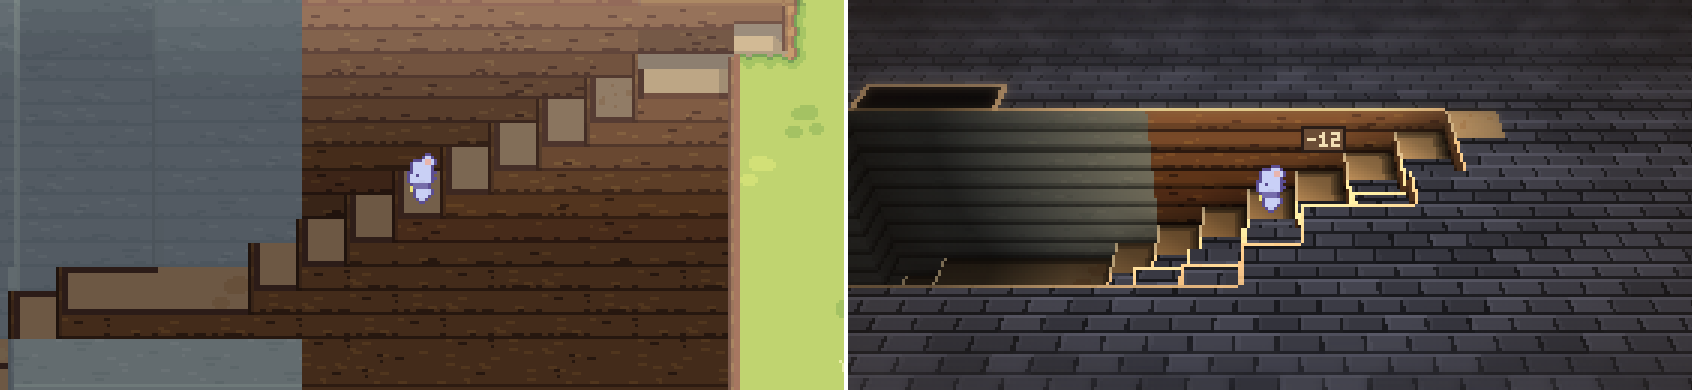
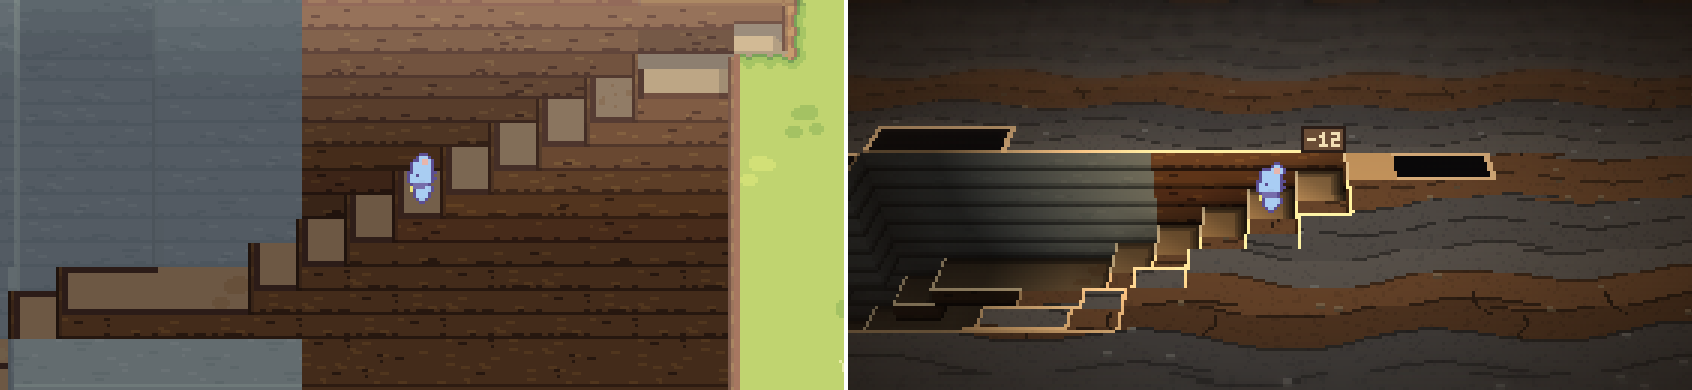
Your cave: rock as strata, gradual entry

diff --git a/index.html b/index.html
@@ -13,7 +13,7 @@ figcaption { font-size:22px; line-height:28px; margin-top:6px; } figcaption span
 </style></head><body>
 <h1>Your cave (doben4), HD-2D under ground</h1>
 <p>Your own cave from your world (a copy of the save). Left: today. Right: the new look. The rock round your tunnel is a slice of solid stone, your stair is cut into it with a lit edge on every step, the room at the bottom has its own walls, a sign says how deep you are, and the way out has a light shaft.</p>
-<p><b>My honest view:</b> much clearer: stairs read as stairs, rooms as rooms. Still wrong: the cut rock looks like a paved floor of bricks (it should look like solid rock), most of it is grey, and stepping into the trench changes the look all at once.</p>
+<p><b>Updated:</b> the rock now reads as layers of earth and stone, not bricks; going down into the trench blends in over three steps instead of one; the small pocket above your bottom room shows as a black slot. <b>Still weak:</b> the stone layers are a flat grey-brown with even seams, and the first two steps into the trench look ghostly while the two looks blend.</p>
 <p style="margin-top:24px"><b>Halfway down your stair</b></p><img src="doben_half.png" alt="Halfway down your stair" style="width:100%;max-width:1692px;margin:8px auto 0">
 <p style="margin-top:24px"><b>The bottom room</b></p><img src="doben_room.png" alt="The bottom room" style="width:100%;max-width:1692px;margin:8px auto 0">
 <p style="margin-top:24px"><b>Top of the stair</b></p><img src="doben_stairtop.png" alt="Top of the stair" style="width:100%;max-width:1692px;margin:8px auto 0">
